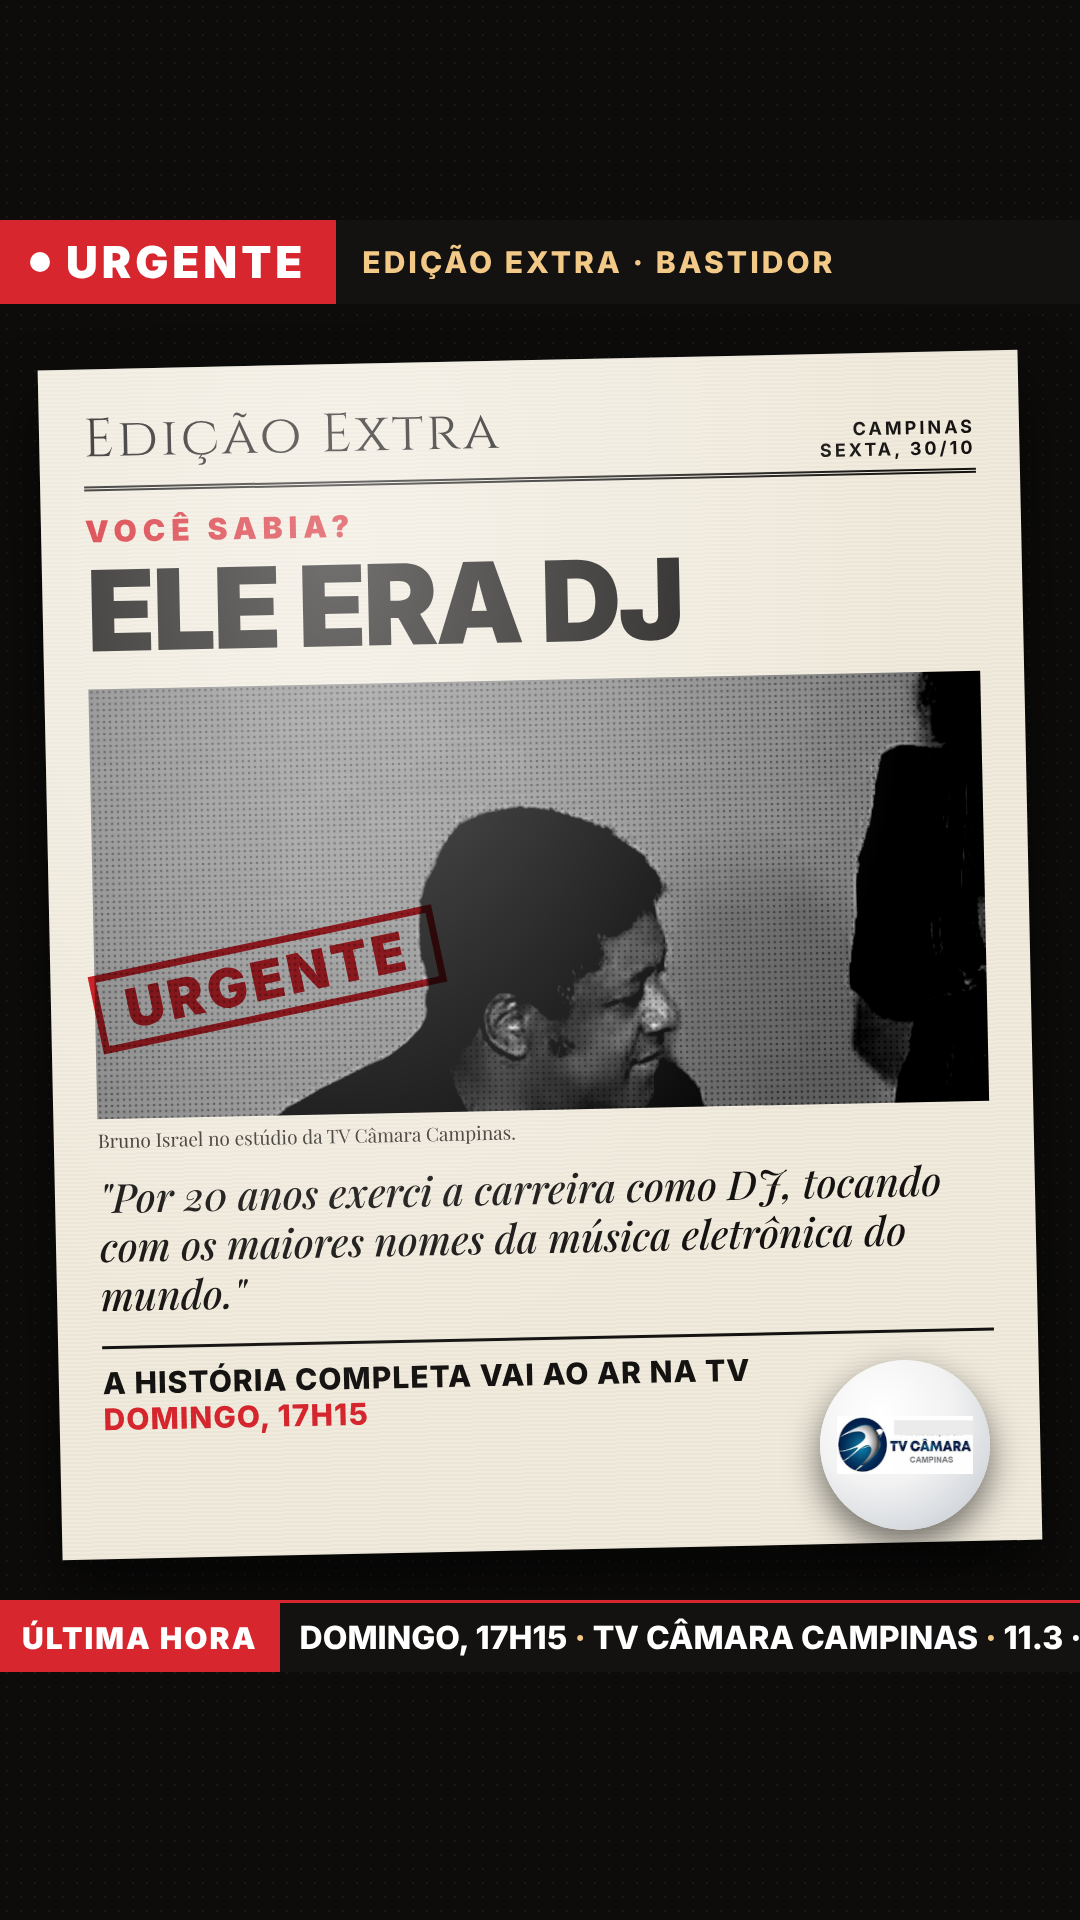
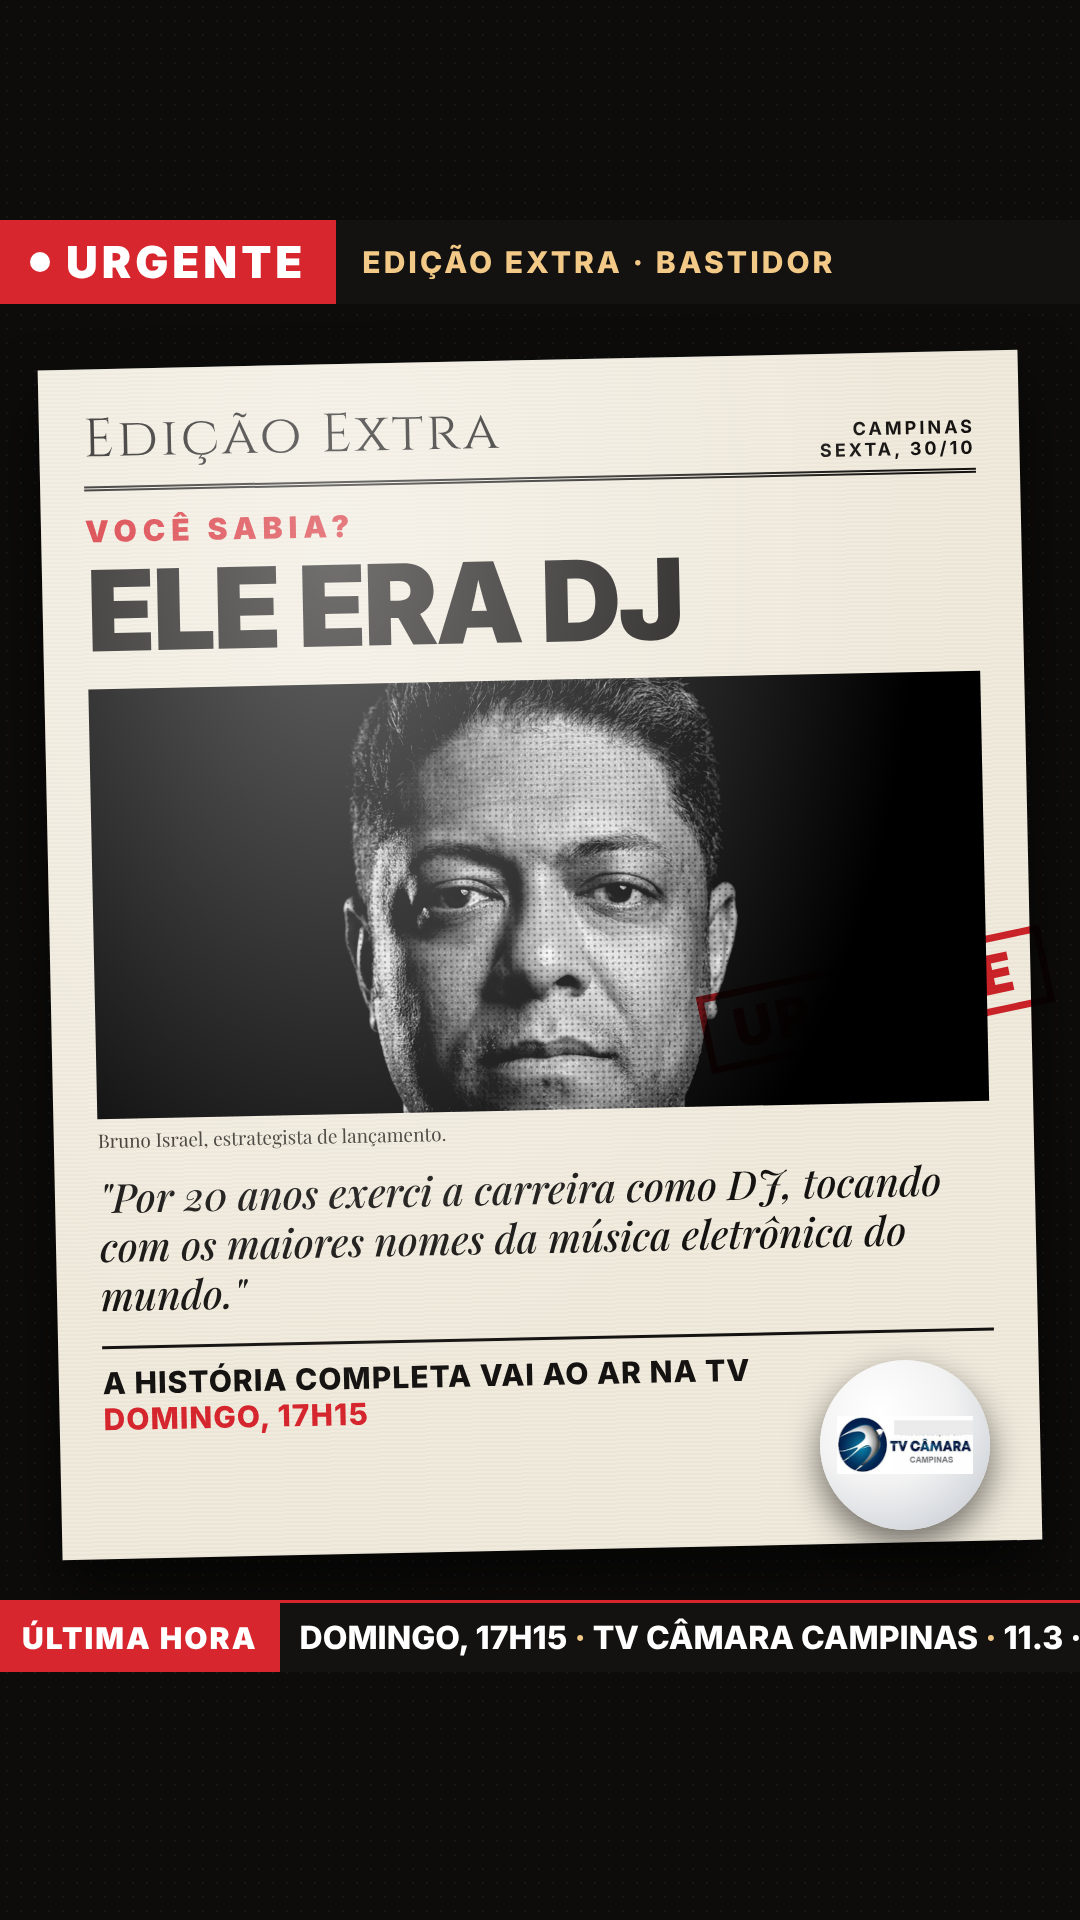
Estatico DJ: retrato do Bruno no lugar do quadro da TV
Claude-Session: https://claude.ai/code/session_01D6NtRh1ZFd58NJkYdfc4eK

Changed region(s): [[0.0611, 0.3438, 0.8861, 0.5938], [0.8861, 0.4688, 0.9472, 0.5312]]

diff --git a/videos/tv-chamada/estatico.html b/videos/tv-chamada/estatico.html
@@ -17,11 +17,11 @@ body{margin:0;background:#0d0c0b}*{box-sizing:border-box}
 .mh .n{font:400 54px Cinzel;letter-spacing:3px}.mh .d{font:700 18px Inter;letter-spacing:3px;text-align:right}
 .kick{margin-top:22px;font:900 30px Inter;letter-spacing:6px;color:#D7262E}
 .hl{font:900 112px Inter;line-height:.95;letter-spacing:-3px;margin-top:8px;text-transform:uppercase}
-.ph{margin-top:26px;height:430px;background:url('foto-pb-12.5.jpg') 5% 45%/200% auto;filter:contrast(1.3) grayscale(1);position:relative}
+.ph{margin-top:26px;height:430px;background:url('foto-bruno.jpg') 50% 22%/100% auto;filter:contrast(1.3) grayscale(1);position:relative}
 .ph:after{content:'';position:absolute;inset:0;background-image:radial-gradient(rgba(0,0,0,.35) 1px,transparent 1.7px);background-size:6px 6px;mix-blend-mode:multiply}
 .cap{font:400 19px PF;color:#3a352f;margin-top:8px}
 .q{margin-top:20px;font:400 40px PI;line-height:1.22}
-.stamp{position:absolute;left:92px;top:940px;border:7px solid #D7262E;color:#D7262E;font:900 54px Inter;letter-spacing:4px;padding:0 24px;transform:rotate(-12deg);mix-blend-mode:multiply;z-index:2}
+.stamp{position:absolute;left:700px;top:960px;border:7px solid #D7262E;color:#D7262E;font:900 54px Inter;letter-spacing:4px;padding:0 24px;transform:rotate(-12deg);mix-blend-mode:multiply;z-index:2}
 .tick{position:absolute;left:0;top:1600px;width:1080px;height:72px;background:#141210;border-top:3px solid #D7262E;display:flex;align-items:center;overflow:hidden;white-space:nowrap}
 .tick .t{background:#D7262E;color:#fff;font:900 30px Inter;letter-spacing:2px;height:69px;display:flex;align-items:center;padding:0 22px}
 .tick .r{font:800 32px Inter;color:#fff;padding-left:20px}.tick .r i{font-style:normal;color:#F3C987}
@@ -36,7 +36,7 @@ body{margin:0;background:#0d0c0b}*{box-sizing:border-box}
   <div class="kick">VOCÊ SABIA?</div>
   <div class="hl">Ele era DJ</div>
   <div class="ph"></div>
-  <div class="cap">Bruno Israel no estúdio da TV Câmara Campinas.</div>
+  <div class="cap">Bruno Israel, estrategista de lançamento.</div>
   <div class="q">"Por 20 anos exerci a carreira como DJ, tocando com os maiores nomes da música eletrônica do mundo."</div>
   <div style="margin-top:26px;border-top:3px solid #151311;padding-top:16px;font:800 30px Inter;letter-spacing:1px">A HISTÓRIA COMPLETA VAI AO AR NA TV<br><span style="color:#D7262E">DOMINGO, 17H15</span></div>
  </div>
